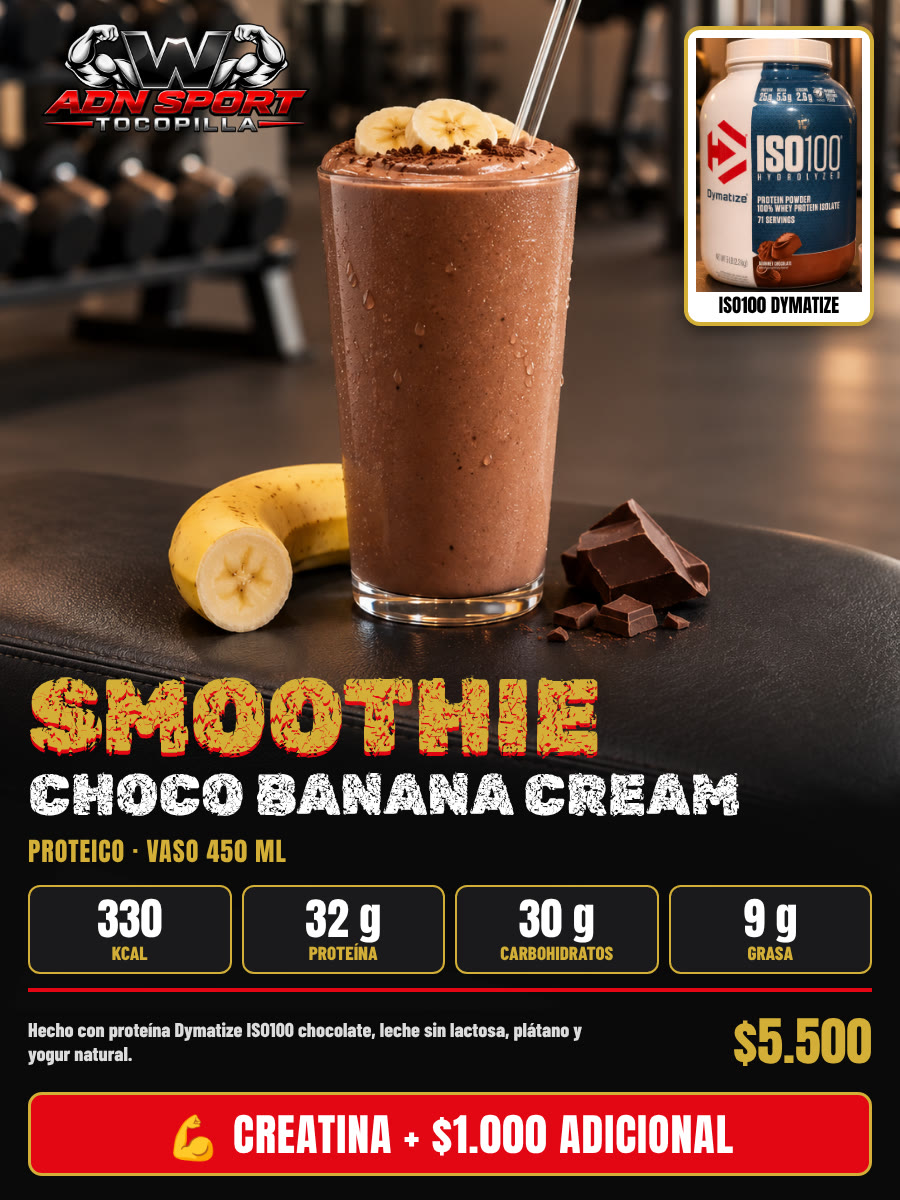
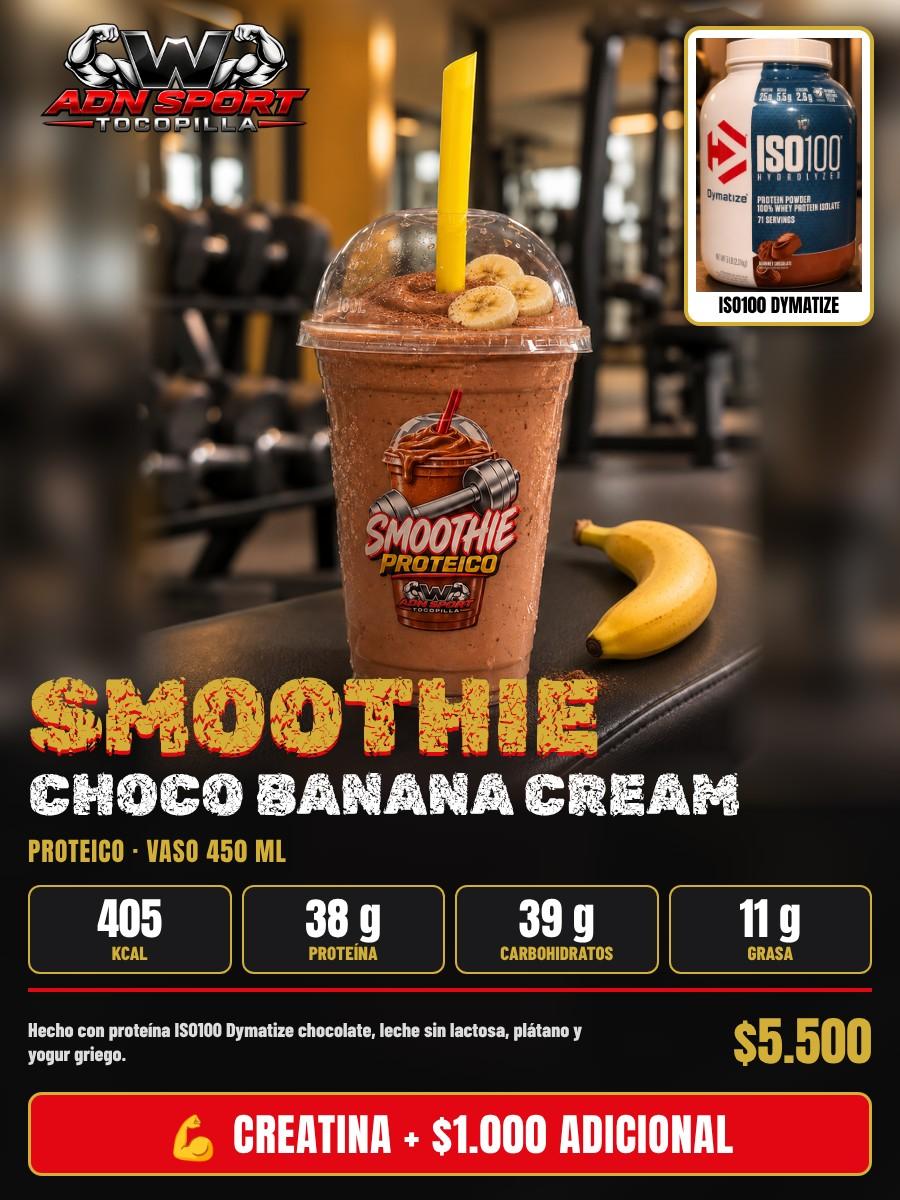
Smoothies: 6 afiches con el vaso real, receta cremosa y vuelve el Choco Maní
Claude-Session: https://claude.ai/code/session_013ZgZPSRHEDhMsqmx8Km842

diff --git a/tarjeta.html b/tarjeta.html
@@ -2483,7 +2483,7 @@ function renderEvolucion(s){
     oculta con «Ya no lo vendo» no llega. «Lo quiero» abre una ventanita (foto grande, cantidad, total)
     y después WhatsApp a Sara con el pedido. El stock solo baja cuando ella cobra en la tienda.
     Al cambiar una foto de img/tienda/ con el mismo nombre, subir TIENDA_FOTO_V junto con FOTO_V de tienda.html. */
- var TIENDA_FOTO_V = "66", TIENDA_WSP = "56975196394", TIENDA_SITIO = "https://encaladasara363-lang.github.io/wgymadnsport-archivos/";
+ var TIENDA_FOTO_V = "67", TIENDA_WSP = "56975196394", TIENDA_SITIO = "https://encaladasara363-lang.github.io/wgymadnsport-archivos/";
  /* Interruptor (25-10-2026, la dueña: "no quiero publicar la tienda el lunes porque compré ropa en Shein y no sé
     cuándo me llegaría"): en false la tarjeta no muestra la tienda aunque la Versión 25 esté instalada.
     Ponerlo en true (y subir TARJETA_VERSION) solo cuando ella lo pida. */
@@ -2541,7 +2541,7 @@ function renderEvolucion(s){
    /* El batido ganador de masa no tiene stock propio: sale de las porciones del tarro de «Batido de proteína»
       (27-10-2026, la dueña: "el ganador de masa me aparece sin stock"; mismo criterio que USA_PORCION de tienda.html). */
    /* Desde el 10-11-2026 la única proteína es la Prostar Vanilla (el Clear se devolvió; la Protein Phorm ya no se usa). */
-   l = l.filter(function(p){ return !/^(batido de prote|tarro de prote|batido ganador)/i.test(p.n) && !/^smoothie proteico choco (frutilla|oreo|man[ií])/i.test(p.n); }); /* 10-11-2026: solo queda el Choco Banana Cream */
+   l = l.filter(function(p){ return !/^(batido de prote|tarro de prote|batido ganador)/i.test(p.n) && !/^smoothie proteico choco (frutilla|oreo)/i.test(p.n); }); /* 10-11-2026: solo queda el Choco Banana Cream; 18-11-2026 vuelve el Choco Maní */
    var prostar = l.filter(function(p){ return /^prote[ií]na prostar/i.test(p.n); })[0];
    /* Smoothies de chocolate (10-11-2026): salen del tarro Dymatize ISO100; si no está cargado, de la Prostar. */
    var tarro = l.filter(function(p){ return /^prote[ií]na (dymatize )?iso ?100/i.test(p.n); })[0] || prostar;
@@ -2626,9 +2626,12 @@ function renderEvolucion(s){
  var TIENDA_MACROS = [
   { re:/^batido ganador/i, k:670, p:44, c:74, g:24, lleva:"Proteína whey chocolate, leche sin lactosa, plátano, avena y mantequilla de maní", al:"leche, soya y maní" },
   /* Smoothie Choco Banana Cream (05-11-2026, receta de la dueña, vaso de 450 ml; proteína Dragon Pharma Protein Phorm 30 g). */
-  { re:/^smoothie proteico frutilla cream/i, k:305, p:33, c:26, g:9, por:"450 ml", lleva:"Proteína Prostar Whey vainilla, leche entera sin lactosa, frutillas, plátano, yogur natural sin azúcar y hielo", al:"leche" },
-  { re:/^smoothie proteico choco banana/i, k:330, p:32, c:30, g:9, por:"450 ml", lleva:"Proteína Dymatize ISO100 chocolate, leche entera sin lactosa, plátano, yogur natural sin azúcar y hielo", al:"leche" },
-  { re:/^smoothie proteico choco man[ií]/i, k:400, p:37, c:17, g:20, por:"450 ml", lleva:"Proteína Dymatize ISO100 chocolate, leche entera sin lactosa, mantequilla de maní y hielo", al:"leche y maní" },
+  { re:/^smoothie proteico frutilla cream/i, k:385, p:38, c:32, g:12, por:"450 ml", lleva:"Proteína Prostar Whey vainilla, leche entera sin lactosa, frutillas, plátano, yogur griego natural sin azúcar y base de helado", al:"leche" },
+  { re:/^smoothie proteico choco banana/i, k:405, p:38, c:39, g:11, por:"450 ml", lleva:"Proteína Dymatize ISO100 chocolate, leche entera sin lactosa, plátano, yogur griego natural sin azúcar y base de helado", al:"leche" },
+  { re:/^smoothie proteico choco man[ií]/i, k:460, p:42, c:33, g:19, por:"450 ml", lleva:"Proteína Dymatize ISO100 chocolate, leche entera sin lactosa, mantequilla de maní, plátano, yogur griego natural sin azúcar y base de helado", al:"leche y maní" },
+  { re:/^smoothie proteico vainilla latte/i, k:380, p:38, c:31, g:12, por:"450 ml", lleva:"Proteína Prostar Whey vainilla, leche entera sin lactosa, café, canela, plátano, yogur griego natural sin azúcar y base de helado", al:"leche" },
+  { re:/^smoothie proteico tropical mango/i, k:445, p:39, c:41, g:15, por:"450 ml", lleva:"Proteína Prostar Whey vainilla, leche entera sin lactosa, mango, plátano, coco rallado, yogur griego natural sin azúcar y base de helado", al:"leche" },
+  { re:/^smoothie proteico berry cream/i, k:400, p:38, c:36, g:12, por:"450 ml", lleva:"Proteína Prostar Whey vainilla, leche entera sin lactosa, arándanos, frambuesas, moras, plátano, yogur griego natural sin azúcar y base de helado", al:"leche" },
   { re:/^smoothie proteico choco oreo/i, k:375, p:33, c:29, g:14, por:"450 ml", lleva:"Proteína Dymatize ISO100 chocolate, leche entera sin lactosa, galletas tipo Oreo y hielo", al:"leche, trigo y soya" },
   { re:/^smoothie proteico choco frutilla/i, k:295, p:33, c:19, g:10, por:"450 ml", lleva:"Proteína Dymatize ISO100 chocolate, leche entera sin lactosa, frutillas y hielo", al:"leche" },
   { re:/^batido de prote/i, k:315, p:32, c:27, g:9, lleva:"Proteína whey chocolate, leche sin lactosa, plátano, hielo y un toque de canela o cacao", al:"leche y soya" },
@@ -2767,7 +2770,7 @@ function renderEvolucion(s){
     compara TARJETA_VERSION con tarjeta-version.txt del sitio y, si hay
     una más nueva, la página se recarga sola (el nombre ya aparece
     puesto). Al cambiar tarjeta.html, subir los DOS números juntos. */
- var TARJETA_VERSION = "2026111701", ultimaRevisionVersion = 0;
+ var TARJETA_VERSION = "2026111801", ultimaRevisionVersion = 0;
 function recargarFresco_(v){
  /* Recarga pidiendo la página nueva (11-10-2026): location.reload() podía traer la copia
     guardada del teléfono (GitHub guarda la página ~10 min) y el socio seguía con la versión

diff --git a/tienda.html b/tienda.html
@@ -353,7 +353,7 @@ function hoyISO(){ return new Intl.DateTimeFormat("en-CA", { timeZone:"America/S
 function ahoraTxt(){ var f = new Intl.DateTimeFormat("sv-SE", { timeZone:"America/Santiago", year:"numeric", month:"2-digit", day:"2-digit", hour:"2-digit", minute:"2-digit" }).format(new Date()); return f.replace("T", " ").slice(0, 16); }
 function normTxt(s){ return String(s || "").toUpperCase().normalize("NFD").replace(/[̀-ͯ]/g, ""); }
 /* Al cambiar una foto en img/tienda/ (mismo nombre), subir FOTO_V para que los teléfonos no muestren la antigua. */
-var FOTO_V = "66";
+var FOTO_V = "67";
 function fotoUrl(f){ return f ? (/^data:/.test(f) ? f : f + (f.indexOf("?") < 0 ? "?v=" + FOTO_V : "")) : ""; }
 /* 📷 Foto subida desde el celular (27-10-2026, la dueña: "¿no lo puedo hacer todo sin depender de ti?"): se achica a
    máx. 480 × 640, se le pone el logo del gimnasio arriba a la izquierda (34 % del ancho, como las demás fotos) y se guarda
@@ -467,7 +467,7 @@ function elegirDelGrupo(cat, alElegir, lista){
 /* Waffles fuera de la tienda (07-11-2026, la dueña: "elimina la sección de waffles"): no salen en el inventario ni en Vender. */
 /* Helados de palito fuera de la tienda (10-11-2026, la dueña: "bórrame la sección de helados de palito"), igual que los waffles. */
 /* Proteínas antiguas fuera (10-11-2026): el Clear se devolvió por vencido y la dueña trabaja solo con la Prostar ("la Prostar es nueva, con esa trabajaré"). */
-function esWaffle(p){ return p && (p.cat === "Waffles" || /^waffle/i.test(p.n || "") || /^(batido de prote|tarro de prote|batido ganador)/i.test(p.n || "") || /^smoothie proteico choco (frutilla|oreo|man[ií])/i.test(p.n || "") || p.cat === "Helados de palito" || p.cat === "Paletas" || /^(helado de palito|paleta proteica)/i.test(p.n || "")); }
+function esWaffle(p){ return p && (p.cat === "Waffles" || /^waffle/i.test(p.n || "") || /^(batido de prote|tarro de prote|batido ganador)/i.test(p.n || "") || /^smoothie proteico choco (frutilla|oreo)/i.test(p.n || "") || p.cat === "Helados de palito" || p.cat === "Paletas" || /^(helado de palito|paleta proteica)/i.test(p.n || "")); }
 function activos(){ return S.productos.filter(function(p){ return p.activo && !retirada(p) && !esWaffle(p); }); }
 /* 🏷 Ropa vendida (26-10-2026, la dueña: casi toda la ropa es de una sola prenda; "cuando se venda una prenda que se
    coloque vendido automático y que se quede en la tienda por 15 días y luego la eliminas"): una prenda sin stock con
@@ -694,7 +694,7 @@ setInterval(function(){ if(pend.length) enviarPendientes(); }, 30000);
   var on = document.documentElement.classList.toggle("rosa");
   try{ localStorage.setItem("wgym_tienda_tema_v2", on ? "rosa" : "oscuro"); }catch(e){}
   toast(on ? "🎨 Fondo rosita (solo en este equipo). Toca 🎨 de nuevo para volver al negro." : "🎨 Volviste al fondo negro.", 3500); }; })();
-var TIENDA_VERSION = "2026111701";
+var TIENDA_VERSION = "2026111801";
 setInterval(function(){ if(clave && !document.hidden && $("velo").hidden && !$("app").hidden) enviarPendientes().then(function(){ cargar(true); }); }, 30000);
 function revisarVersion(){
  fetch("tienda-version.txt?t=" + Date.now(), { cache:"no-store" }).then(function(r){ return r.ok ? r.text() : ""; }).then(function(v){

diff --git a/CLAUDE.md b/CLAUDE.md
@@ -1686,7 +1686,7 @@ productos» y «Tienda movimientos», acciones `tienda*` de `docs/apps-script/In
 - **💰 Mi plata por categoría (07-11-2026, la dueña: "lo más importante para mí: mi ganancia, cuánto tengo para comprar y lo que he invertido en cada sección, y que cuando agregue mercadería me vaya descontando"; antes salía todo en rojo y la confundía):** `plataParaComprar` trata cada categoría como una caja: 📥 Invertiste (todas las entradas con costo, stock inicial incluido, más los gastos de esa categoría), 💵 Vendiste, 📦 Tienes en mercadería (stock × costo) y 💰 Para comprar = lo que dejaron las ventas sin la parte de la dueña (costo + 70 % de la ganancia; fiados sin pagar no cuentan, lo abonado sí) − lo invertido. Si da menos de 0 se muestra $0 en amarillo, con el aviso «todavía estás recuperando lo que invertiste… tu plata está en la mercadería» (nunca en rojo). El total de arriba suma solo las categorías con plata.
 - **💰 La caja de la tienda (10-11-2026, la dueña: "cuando vendo compro mercadería para no quedar sin stock"; eligió esta cuenta, reemplaza el «Para comprar» por categoría):** `plataParaComprar` → `caja` = partiste con (`fondoInicial()`, $100.000 por defecto, «✏ Cambiar» en «💰 Mi plata», guardado en cada equipo en `wgym_tienda_fondo_inicial_v1`) + lo que dejaron las ventas cobradas (costo + la ganancia que no es suya) − toda la mercadería comprada y los gastos. «💰 Para comprar» muestra esa caja (nunca bajo $0; si da negativo, explica que la diferencia la puso ella y está en la mercadería). Cada categoría muestra Compraste / Vendiste / Volvió a la caja / En mercadería, sin «para comprar» propio. Su 30 % se saca el día 1 de cada mes.
 - **🔁 Para volver a invertir por sección (10-11-2026, la dueña: "solo quiero que me aparte el 30 % de la ganancia y que me muestre lo que tengo que volver a invertir en cada sección… cada vez que vendo"; reemplaza la «caja de la tienda»):** `reinversion(per)` recorre las ventas cobradas del período (fiados solo en la parte abonada): por cada venta, su % (`pctDe`, 30) de la ganancia es para ella y el resto (costo + 70 % de la ganancia) vuelve a esa misma sección. El botón amarillo de arriba dice «🔁 Para volver a invertir» (mes en curso) y el verde «💵 Tu 30 %». `verPlata` trae Hoy / Esta semana / Este mes / Todo (`plPer`) y una tarjeta por sección con Vendiste / 🔁 Para volver a invertir / Tu 30 %. Ya no muestra compras, fondo inicial ni «en mercadería» (`plataParaComprar`/`fondoInicial` quedaron sin usar). **Ropa y accesorios juntos (10-11-2026, la dueña: "ropa y accesorios va todo junto, no solo ropa de mujer"):** `GRUPO_PLATA` junta Ropa mujer, Ropa hombre, Accesorios y Zapatillas en una sola tarjeta «👕 Ropa y accesorios» (cada venta usa igual el % de su categoría).
-- **💰 Darse vuelta con lo que hay, desde el 10-11-2026 (la dueña: "ya no quiero invertir más, solo darme vuelta con lo que tengo… cada vez que venda compro… semanal y que se vaya acumulando… tope todo el dinero que ya tengo invertido… solo desde hoy empezar a ver mi ganancia"; reemplaza «Para volver a invertir»):** `PLATA_DESDE = "2026-11-10"`, **reiniciado desde cero el mismo día a las 15:25** (`"2026-11-10 15:25"`, fecha y hora: se compara con los primeros 16 caracteres de `m.f`, `desdeTxt()` lo muestra; la dueña: "un reseteo desde cero… solo gastar plata si me entra dinero… mi 30 % de todo incluyendo los pases diarios"; lo de antes de esa hora queda en el tope). `reinversion()` cuenta solo desde esa fecha y por sección (`GRUPO_PLATA`: ropa, zapatillas y accesorios juntos): ➕ Entró para comprar (costo + 70 % de la ganancia de cada venta cobrada; fiados solo lo abonado; «esta semana» de lunes a domingo), ➖ Compraste (entradas con costo y gastos de esa sección desde esa fecha) y 💰 Disponible = entró − compró (si queda bajo 0, en rojo claro con «⚠ Compraste $X más…»: ella avisa si gasta de más). Arriba, el botón amarillo «💰 Disponible para comprar · desde el 10/11» y el verde «💵 Tu 30 % · desde el 10/11 (va sumando)» con «esta semana»; `verMiParte` muestra su parte semana a semana (`miParteSemanas`). En «Mi plata», «🔒 Tu plata ya invertida (tope)» = `invertidoAntes()` (todo lo comprado antes de esa fecha, de los 120 días de movimientos que trae la página). **Desde el 10-11-2026 (la dueña: "en el tope quiero que sumes bien todo lo que he invertido")** `invertidoPorSeccion()` suma además lo cargado sin costo (cantidad × costo del producto) y el stock subido a mano en la ficha (ajustes positivos, sin apartados/packs/porciones), y «Mi plata» muestra el tope separado por sección. Arriba del tope, «💼 Toda tu inversión» (10-11-2026, pedido de la dueña) = tope + lo comprado desde el reseteo (compras de cada sección y gastos generales). Los tarros de `COMPRADO_ANTES` llevan `monto` (Blue Razz $24.990, Prostar $95.000, ISO100 $130.000) y cuentan siempre por ese precio si el producto existe, sin sumar sus movimientos aparte. **Desde el 10-11-2026 (la dueña: "quiero que sumes el total de todo lo que he comprado en costo real")** el monto fijo cuenta aunque el producto no esté cargado (ISO100 no lo estaba), el «Batido de proteína» (Clear) no suma (la dueña lo devolvió y le devolvieron la plata; `devuelto:true`) y lo que sale de un tarro (granizado, smoothies, ganador) no suma al tope. Revisado contra la planilla: tope ≈ $1.528.418 (ropa + accesorios + zapatillas $431.464, suplementos $352.400 —con la Beta alanina AS 200 g (100 porciones), tarro $18.000 en `COMPRADO_ANTES`; se vende el tarro entero a $27.000, no por porción (la dueña); foto `img/tienda/beta-alanina-as.jpg` (ChatGPT + logo + «SHAKER NO INCLUIDO» + franja «TARRO ENTERO · 100 PORCIONES»)—, resina $407.500 —100 llaveros pequeños, 200 iniciales, 30 lapiceros y 150 placas (75 grandes + 75 pequeñas) a costo, por `monto` en `COMPRADO_ANTES` con `cat:"Resina"`—, bebestibles $198.054, helados $80.400, snacks $51.600, helados de palito $4.000, waffles $3.000). `miParteMeses` quedó sin usar. **Pases diarios como fondo común (10-11-2026, la dueña):** en `reinversion()`, si una sección queda con disponible bajo 0, se cubre con el disponible de «Pases diarios» («🎟 Puesto por los pases diarios» en esa sección y «🎟 Usado en otras secciones» en la de pases); el total no cambia. La franja verde del fondo común y el botón rojo «🎟 Pase diario · $4.000» se quedan en la pantalla Vender (11-11-2026, la dueña: "de ahí no quiero que lo saques"). En «💰 Mi plata» cada sección lleva un borde grueso y el título en una franja de su propio color (`COLORES_SEC`; 11-11-2026, la dueña: "me pierdo y visualmente me confundo"); el fondo común va en verde. Lo «💰 Disponible» (el cuadro de arriba, el total y cada sección) va en **rosado**, el color de la suerte de la dueña (11-11-2026); el cuadro de arriba es fucsia oscuro `#C2185B` con letra blanca (la dueña: el negro sobre rosado no se veía bien). **Tema rosado claro completo, sin fondos negros (11-11-2026, la dueña: "no quiero que tenga fondos negros"):** con `html.rosa` las variables pasan a cuadros blanco/rosado (`--card`, `--card2`), bordes rosados y letra vino `#3A0A24`; casilleros blancos, barra de abajo rosada; los textos amarillos/verdes/rosados (también los puestos en el código) se oscurecen para leerse sobre claro; botones rojos y amarillos, el cuadro fucsia «Disponible» y el verde «Tu 30 %» quedan iguales; las ventanas (`.hoja`) también en rosado; ninguna sección usa rosado de borde. Toda categoría con productos sale en «Mi plata» aunque no tenga ventas desde el reinicio (11-11-2026, la dueña no veía Resina). **🔠 Toda la tienda en MAYÚSCULAS y letra grande (11-11-2026, la dueña es corta de vista):** CSS al final del `<style>` de `tienda.html` (letra Atkinson Hyperlegible en negrita, hecha para baja visión, sin cursiva en los botones; el logo «TIENDA WGYM» y los números en Anton se mantienen; en `#app` y `#velo`; letras de 12-15 px suben a 17 px, gris más claro; los casilleros y las etiquetas impresas no cambian). **Barra de abajo (11-11-2026, la dueña: letras muy chicas y no se notaba qué pestaña apretó):** letra 16 px, íconos 28 px, la pestaña elegida con el ícono más grande dentro de un cuadrito blanco con borde de color (12-11-2026, la dueña: el carrito no se veía sobre el fucsia), la palabra en ese color y una rayita arriba (rojo; fucsia en el tema rosado); el bloque de color completo no le gustó a la dueña. **🎨 Fondo rosita de prueba (11-11-2026, la dueña: "que sea solo para mí"):** botón 🎨 en la cabecera de la tienda; fondo rosado pastel (clase `html.rosa`); desde el mismo día es el fondo por defecto (la dueña no lo veía) y 🎨 vuelve al negro solo en ese equipo (`wgym_tienda_tema_v2`); los cuadros siguen oscuros. Colores fijos por sección en `COLOR_FIJO` (Bebestibles celeste suave: el rojo le pareció muy intenso a la dueña). Desde el 11-11-2026 esa tarjeta se llama «🎟 Fondo común · Pases diarios», va primera, con borde verde y aparece siempre (aunque aún no haya pases). Desde el mismo día (la dueña: "no lo veo en qué lado está") (la dueña guardó el producto «Pase diario» en Bebestibles: al cargar, todo producto que empieza con «Pase diario» cuenta en «Pases diarios») también va como franja verde «🎟 FONDO COMÚN · PASES DIARIOS: $X» bajo los dos cuadros de arriba de la tienda (`#bFondo`, abre «💰 Mi plata»). **Materiales de smoothies automáticos (11-11-2026, la dueña: "pensaba que con solo agregar un smoothie se descontaba el material"):** en `reinversion()`, cada smoothie vendido suma a «➖ Compraste» de Smoothies su costo menos la porción de proteína del tarro (`basePorcion`), y la fila dice «incluye $X de materiales… (automático)». Las compras de leche, fruta y vasos ya no se anotan como gasto de Smoothies (se contarían dos veces). Lo mismo para todo lo que sale de un tarro (`basePorcion`, ej. el granizado: vaso + hielo). **Vaso de las porciones (11-11-2026, la dueña: "los vasos me cuestan 120"):** cada porción vendida sola de pre entreno Mr Hyde, Prostar o ISO100 suma `VASO_PORCION` ($120) a «Compraste» de su sección; smoothies y granizado ya lo traen en su costo. El pre entreno por porción suma además `HIELO_PORCION` ($65: lleva 3 cubos, según la dueña; referencia: bolsa de 2 kg ≈ $1.600 ≈ 75 cubos → ≈$21 por cubo). Cada smoothie suma además la pajilla (`PAJILLA_SMOOTHIE` $60: 50 por $3.000, la dueña). Y el sticker «Smoothie proteico» del vaso (`STICKER_SMOOTHIE` $18: 50 hojas por $7.000 = $140 la hoja ÷ 8 stickers; 11-11-2026, la dueña: "también tiene que agregar el costo de esto en la tienda"). **Helados (los hace la dueña, 11-11-2026):** cada helado vendido suma su costo completo a «Compraste» de Helados, y las entradas de stock de Helados ya no cuentan ahí (se contarían dos veces). Lo que se compra con stock (bebestibles, snacks, ropa, tarros) ya entra a «Compraste» con «Llegó mercadería». **Entradas que no son compras (10-11-2026):** `NO_ES_COMPRA` (nombre + fecha y hora exactas) deja fuera de «➖ Compraste» una entrada que solo volvió a cargar algo que ya tenía (la polera «This is my therapy» de las 16:22, que estaba guardada para una clienta y se pagó ese día). **Compras antiguas cargadas después (10-11-2026):** `COMPRADO_ANTES` (comienzo del nombre + fecha `hasta`) hace que la carga de ese producto vaya al tope y no se descuente del disponible (`compraAntigua`). Primero: Pre entreno Mr Hyde Signature Blue Razz (tarro $24.990, 30 porciones → $833; venta $2.000 por porción; comprado antes del 10-11; foto `img/tienda/pre-entreno-mr-hyde-signature-blue-razz.jpg`: tarro, scoop y shaker sobre el banco negro (ChatGPT) + logo + «SHAKER NO INCLUIDO» + franja «SE VENDE POR PORCIÓN», igual que el Fruit Punch). **Mismo código para los dos sabores (10-11-2026, la dueña: "ponme el mismo código que uso del otro pre, solo cambia el sabor"):** `FAMILIAS` en `tienda.html` (`/^pre entreno mr hyde signature/i`): al escanear el código de un producto de la familia con 2 o más sabores activos, 🛒 Vender pregunta «¿Qué sabor?» (`familiaDe` → `elegirDelGrupo(cat, fn, lista)`). El Blue Razz se carga sin código propio y usa la etiqueta del Fruit Punch. Para otro producto con varios sabores, sumar su regex a `FAMILIAS`. Proteína Prostar 100% Whey Vanilla Créme (Ultimate Nutrition, 2,39 kg ≈ 80 porciones de 30 g; tarro $95.000 → $1.188 por porción; venta $3.000 por porción sola; **también para smoothies de vainilla a $4.500** (10-11-2026): en `USA_PORCION` de `tienda.html` y en la vitrina de `tarjeta.html`, todo smoothie con «vainilla», «vanilla» o «prostar» en el nombre descuenta 1 porción del tarro Prostar (los demás siguen saliendo del «Tarro de proteína …»); ese día el granizado quedó atado solo al Mr Hyde Fruit Punch (`/^pre ?entreno mr hyde signature fruit punch/i`, antes tomaba cualquier Mr Hyde); comprada antes del 10-11, en `COMPRADO_ANTES` con `/^prote[ií]na prostar/i`; foto `img/tienda/proteina-prostar-whey-vanilla.jpg`: tarro, scoop y shaker sobre el banco negro (ChatGPT) + logo + «SHAKER NO INCLUIDO» + franja «SE VENDE POR PORCIÓN»; nombre en la tienda «Proteína Prostar 100% Whey Vanilla Créme», 80 porciones, código propio 200…). **Única proteína desde el 10-11-2026 (la dueña devolvió la Clear por vencida: "la Prostar es nueva, con esa trabajaré"):** «Batido de proteína» (Clear) y «Tarro de proteína …» (Protein Phorm) quedan fuera de la tienda y la vitrina (`esWaffle` en `tienda.html`, filtro en `renderTienda_`; siguen en la planilla). En `USA_PORCION` todos los smoothies (también el Choco Banana Cream) y el batido ganador descuentan del tarro Prostar; en la vitrina toman su stock. Los macros del Choco Banana siguen siendo los de la receta con Protein Phorm hasta que la dueña mande la nueva. **Smoothies de chocolate con Dymatize ISO100 Gourmet Chocolate (10-11-2026, la dueña: "todos estos smoothies los haré ahora con esta proteína"; tarro 2,3 kg, 71 porciones):** Choco Banana Cream, Choco Maní, Choco Oreo y Choco Frutilla descuentan del producto «Proteína Dymatize ISO100 …» (`USA_PORCION` `/^smoothie.*(choco|cacao)/` antes de la regla general; en la vitrina, `tarro`); si todavía no está cargado, salen de la Prostar. Tarro $130.000 ÷ 71 = $1.831 por porción, comprado antes del 10-11 (en `COMPRADO_ANTES`). Venta $4.000 por porción sola y $5.500 los smoothies de chocolate (la dueña). Foto `img/tienda/proteina-iso100-gourmet-chocolate.jpg`: tarro, scoop y shaker sobre el banco negro (ChatGPT) + logo + «SHAKER NO INCLUIDO» + franja «SE VENDE POR PORCIÓN». **Smoothies por proteína (10-11-2026, la dueña: "que identifique los sabores con la proteína ISO y con la Prostar"):** en la vitrina de la tarjeta, la categoría Smoothies se divide en «🍫 Con proteína ISO100 Dymatize» (los de chocolate) y «🍦 Con proteína Prostar» (los demás), cada una con su fila (`tvProt_`/`tvProtGrupos_`), y cada smoothie lleva la etiqueta «🍫 ISO100» o «🍦 Prostar» (también en «Todos»); en el inventario de la tienda, «🥤 Sale del tarro 🍫 ISO100/🍦 Prostar». Afiches de los smoothies de chocolate (mismo diseño del Choco Banana, cuadro del tarro ISO100, $5.500; generados en el scratchpad con `smo/gen.py`): `img/tienda/smoothie-choco-banana-cream.jpg` (rehecho) `smoothie-choco-mani.jpg`, `smoothie-choco-oreo.jpg` y `smoothie-choco-frutilla.jpg`. Macros estimados con 30 g de ISO100 en `TIENDA_MACROS`: Banana 330 · 32 · 30 · 9; Maní 400 · 37 · 17 · 20 (maní); Oreo 375 · 33 · 29 · 14 (trigo, soya); Frutilla 295 · 33 · 19 · 10. **Solo el Choco Banana Cream desde el 10-11-2026 (la dueña: "quiero borrar todos los sabores del smoothie, solo me quedaré con el banana cream"):** Choco Frutilla, Choco Oreo y Choco Maní quedan fuera de la tienda (`esWaffle`) y de la vitrina (filtro de `renderTienda_`); siguen en la planilla y sus afiches en `img/tienda/`. No volver a mostrarlos salvo que ella lo pida. **Smoothie proteico Frutilla Cream (10-11-2026, receta de la dueña, con Prostar):** 150 ml de leche entera sin lactosa, 30 g de Prostar, 80 g de frutillas congeladas, 30 g de plátano congelado, 60 g de yogur natural sin azúcar, 2 cubos de hielo y 0,3 g de xantana; ≈305 kcal · 33 P · 26 C · 9 G (estimado, `TIENDA_MACROS`), contiene leche; costo ≈$2.000, venta $4.500; descuenta del tarro Prostar (`USA_PORCION`) y en la vitrina va bajo «🍦 Con proteína Prostar». Afiche `img/tienda/smoothie-frutilla-cream.jpg` (foto rosada de ChatGPT + cuadro del tarro Prostar, igual que los demás). **Batido ganador de masa FUERA desde el 10-11-2026** (la dueña: "ganador de masa no"): mismo filtro (`/^batido ganador/i`) en la tienda y la vitrina; no volver a mostrarlo salvo que ella lo pida.
+- **💰 Darse vuelta con lo que hay, desde el 10-11-2026 (la dueña: "ya no quiero invertir más, solo darme vuelta con lo que tengo… cada vez que venda compro… semanal y que se vaya acumulando… tope todo el dinero que ya tengo invertido… solo desde hoy empezar a ver mi ganancia"; reemplaza «Para volver a invertir»):** `PLATA_DESDE = "2026-11-10"`, **reiniciado desde cero el mismo día a las 15:25** (`"2026-11-10 15:25"`, fecha y hora: se compara con los primeros 16 caracteres de `m.f`, `desdeTxt()` lo muestra; la dueña: "un reseteo desde cero… solo gastar plata si me entra dinero… mi 30 % de todo incluyendo los pases diarios"; lo de antes de esa hora queda en el tope). `reinversion()` cuenta solo desde esa fecha y por sección (`GRUPO_PLATA`: ropa, zapatillas y accesorios juntos): ➕ Entró para comprar (costo + 70 % de la ganancia de cada venta cobrada; fiados solo lo abonado; «esta semana» de lunes a domingo), ➖ Compraste (entradas con costo y gastos de esa sección desde esa fecha) y 💰 Disponible = entró − compró (si queda bajo 0, en rojo claro con «⚠ Compraste $X más…»: ella avisa si gasta de más). Arriba, el botón amarillo «💰 Disponible para comprar · desde el 10/11» y el verde «💵 Tu 30 % · desde el 10/11 (va sumando)» con «esta semana»; `verMiParte` muestra su parte semana a semana (`miParteSemanas`). En «Mi plata», «🔒 Tu plata ya invertida (tope)» = `invertidoAntes()` (todo lo comprado antes de esa fecha, de los 120 días de movimientos que trae la página). **Desde el 10-11-2026 (la dueña: "en el tope quiero que sumes bien todo lo que he invertido")** `invertidoPorSeccion()` suma además lo cargado sin costo (cantidad × costo del producto) y el stock subido a mano en la ficha (ajustes positivos, sin apartados/packs/porciones), y «Mi plata» muestra el tope separado por sección. Arriba del tope, «💼 Toda tu inversión» (10-11-2026, pedido de la dueña) = tope + lo comprado desde el reseteo (compras de cada sección y gastos generales). Los tarros de `COMPRADO_ANTES` llevan `monto` (Blue Razz $24.990, Prostar $95.000, ISO100 $130.000) y cuentan siempre por ese precio si el producto existe, sin sumar sus movimientos aparte. **Desde el 10-11-2026 (la dueña: "quiero que sumes el total de todo lo que he comprado en costo real")** el monto fijo cuenta aunque el producto no esté cargado (ISO100 no lo estaba), el «Batido de proteína» (Clear) no suma (la dueña lo devolvió y le devolvieron la plata; `devuelto:true`) y lo que sale de un tarro (granizado, smoothies, ganador) no suma al tope. Revisado contra la planilla: tope ≈ $1.528.418 (ropa + accesorios + zapatillas $431.464, suplementos $352.400 —con la Beta alanina AS 200 g (100 porciones), tarro $18.000 en `COMPRADO_ANTES`; se vende el tarro entero a $27.000, no por porción (la dueña); foto `img/tienda/beta-alanina-as.jpg` (ChatGPT + logo + «SHAKER NO INCLUIDO» + franja «TARRO ENTERO · 100 PORCIONES»)—, resina $407.500 —100 llaveros pequeños, 200 iniciales, 30 lapiceros y 150 placas (75 grandes + 75 pequeñas) a costo, por `monto` en `COMPRADO_ANTES` con `cat:"Resina"`—, bebestibles $198.054, helados $80.400, snacks $51.600, helados de palito $4.000, waffles $3.000). `miParteMeses` quedó sin usar. **Pases diarios como fondo común (10-11-2026, la dueña):** en `reinversion()`, si una sección queda con disponible bajo 0, se cubre con el disponible de «Pases diarios» («🎟 Puesto por los pases diarios» en esa sección y «🎟 Usado en otras secciones» en la de pases); el total no cambia. La franja verde del fondo común y el botón rojo «🎟 Pase diario · $4.000» se quedan en la pantalla Vender (11-11-2026, la dueña: "de ahí no quiero que lo saques"). En «💰 Mi plata» cada sección lleva un borde grueso y el título en una franja de su propio color (`COLORES_SEC`; 11-11-2026, la dueña: "me pierdo y visualmente me confundo"); el fondo común va en verde. Lo «💰 Disponible» (el cuadro de arriba, el total y cada sección) va en **rosado**, el color de la suerte de la dueña (11-11-2026); el cuadro de arriba es fucsia oscuro `#C2185B` con letra blanca (la dueña: el negro sobre rosado no se veía bien). **Tema rosado claro completo, sin fondos negros (11-11-2026, la dueña: "no quiero que tenga fondos negros"):** con `html.rosa` las variables pasan a cuadros blanco/rosado (`--card`, `--card2`), bordes rosados y letra vino `#3A0A24`; casilleros blancos, barra de abajo rosada; los textos amarillos/verdes/rosados (también los puestos en el código) se oscurecen para leerse sobre claro; botones rojos y amarillos, el cuadro fucsia «Disponible» y el verde «Tu 30 %» quedan iguales; las ventanas (`.hoja`) también en rosado; ninguna sección usa rosado de borde. Toda categoría con productos sale en «Mi plata» aunque no tenga ventas desde el reinicio (11-11-2026, la dueña no veía Resina). **🔠 Toda la tienda en MAYÚSCULAS y letra grande (11-11-2026, la dueña es corta de vista):** CSS al final del `<style>` de `tienda.html` (letra Atkinson Hyperlegible en negrita, hecha para baja visión, sin cursiva en los botones; el logo «TIENDA WGYM» y los números en Anton se mantienen; en `#app` y `#velo`; letras de 12-15 px suben a 17 px, gris más claro; los casilleros y las etiquetas impresas no cambian). **Barra de abajo (11-11-2026, la dueña: letras muy chicas y no se notaba qué pestaña apretó):** letra 16 px, íconos 28 px, la pestaña elegida con el ícono más grande dentro de un cuadrito blanco con borde de color (12-11-2026, la dueña: el carrito no se veía sobre el fucsia), la palabra en ese color y una rayita arriba (rojo; fucsia en el tema rosado); el bloque de color completo no le gustó a la dueña. **🎨 Fondo rosita de prueba (11-11-2026, la dueña: "que sea solo para mí"):** botón 🎨 en la cabecera de la tienda; fondo rosado pastel (clase `html.rosa`); desde el mismo día es el fondo por defecto (la dueña no lo veía) y 🎨 vuelve al negro solo en ese equipo (`wgym_tienda_tema_v2`); los cuadros siguen oscuros. Colores fijos por sección en `COLOR_FIJO` (Bebestibles celeste suave: el rojo le pareció muy intenso a la dueña). Desde el 11-11-2026 esa tarjeta se llama «🎟 Fondo común · Pases diarios», va primera, con borde verde y aparece siempre (aunque aún no haya pases). Desde el mismo día (la dueña: "no lo veo en qué lado está") (la dueña guardó el producto «Pase diario» en Bebestibles: al cargar, todo producto que empieza con «Pase diario» cuenta en «Pases diarios») también va como franja verde «🎟 FONDO COMÚN · PASES DIARIOS: $X» bajo los dos cuadros de arriba de la tienda (`#bFondo`, abre «💰 Mi plata»). **Materiales de smoothies automáticos (11-11-2026, la dueña: "pensaba que con solo agregar un smoothie se descontaba el material"):** en `reinversion()`, cada smoothie vendido suma a «➖ Compraste» de Smoothies su costo menos la porción de proteína del tarro (`basePorcion`), y la fila dice «incluye $X de materiales… (automático)». Las compras de leche, fruta y vasos ya no se anotan como gasto de Smoothies (se contarían dos veces). Lo mismo para todo lo que sale de un tarro (`basePorcion`, ej. el granizado: vaso + hielo). **Vaso de las porciones (11-11-2026, la dueña: "los vasos me cuestan 120"):** cada porción vendida sola de pre entreno Mr Hyde, Prostar o ISO100 suma `VASO_PORCION` ($120) a «Compraste» de su sección; smoothies y granizado ya lo traen en su costo. El pre entreno por porción suma además `HIELO_PORCION` ($65: lleva 3 cubos, según la dueña; referencia: bolsa de 2 kg ≈ $1.600 ≈ 75 cubos → ≈$21 por cubo). Cada smoothie suma además la pajilla (`PAJILLA_SMOOTHIE` $60: 50 por $3.000, la dueña). Y el sticker «Smoothie proteico» del vaso (`STICKER_SMOOTHIE` $18: 50 hojas por $7.000 = $140 la hoja ÷ 8 stickers; 11-11-2026, la dueña: "también tiene que agregar el costo de esto en la tienda"). **Helados (los hace la dueña, 11-11-2026):** cada helado vendido suma su costo completo a «Compraste» de Helados, y las entradas de stock de Helados ya no cuentan ahí (se contarían dos veces). Lo que se compra con stock (bebestibles, snacks, ropa, tarros) ya entra a «Compraste» con «Llegó mercadería». **Entradas que no son compras (10-11-2026):** `NO_ES_COMPRA` (nombre + fecha y hora exactas) deja fuera de «➖ Compraste» una entrada que solo volvió a cargar algo que ya tenía (la polera «This is my therapy» de las 16:22, que estaba guardada para una clienta y se pagó ese día). **Compras antiguas cargadas después (10-11-2026):** `COMPRADO_ANTES` (comienzo del nombre + fecha `hasta`) hace que la carga de ese producto vaya al tope y no se descuente del disponible (`compraAntigua`). Primero: Pre entreno Mr Hyde Signature Blue Razz (tarro $24.990, 30 porciones → $833; venta $2.000 por porción; comprado antes del 10-11; foto `img/tienda/pre-entreno-mr-hyde-signature-blue-razz.jpg`: tarro, scoop y shaker sobre el banco negro (ChatGPT) + logo + «SHAKER NO INCLUIDO» + franja «SE VENDE POR PORCIÓN», igual que el Fruit Punch). **Mismo código para los dos sabores (10-11-2026, la dueña: "ponme el mismo código que uso del otro pre, solo cambia el sabor"):** `FAMILIAS` en `tienda.html` (`/^pre entreno mr hyde signature/i`): al escanear el código de un producto de la familia con 2 o más sabores activos, 🛒 Vender pregunta «¿Qué sabor?» (`familiaDe` → `elegirDelGrupo(cat, fn, lista)`). El Blue Razz se carga sin código propio y usa la etiqueta del Fruit Punch. Para otro producto con varios sabores, sumar su regex a `FAMILIAS`. Proteína Prostar 100% Whey Vanilla Créme (Ultimate Nutrition, 2,39 kg ≈ 80 porciones de 30 g; tarro $95.000 → $1.188 por porción; venta $3.000 por porción sola; **también para smoothies de vainilla a $4.500** (10-11-2026): en `USA_PORCION` de `tienda.html` y en la vitrina de `tarjeta.html`, todo smoothie con «vainilla», «vanilla» o «prostar» en el nombre descuenta 1 porción del tarro Prostar (los demás siguen saliendo del «Tarro de proteína …»); ese día el granizado quedó atado solo al Mr Hyde Fruit Punch (`/^pre ?entreno mr hyde signature fruit punch/i`, antes tomaba cualquier Mr Hyde); comprada antes del 10-11, en `COMPRADO_ANTES` con `/^prote[ií]na prostar/i`; foto `img/tienda/proteina-prostar-whey-vanilla.jpg`: tarro, scoop y shaker sobre el banco negro (ChatGPT) + logo + «SHAKER NO INCLUIDO» + franja «SE VENDE POR PORCIÓN»; nombre en la tienda «Proteína Prostar 100% Whey Vanilla Créme», 80 porciones, código propio 200…). **Única proteína desde el 10-11-2026 (la dueña devolvió la Clear por vencida: "la Prostar es nueva, con esa trabajaré"):** «Batido de proteína» (Clear) y «Tarro de proteína …» (Protein Phorm) quedan fuera de la tienda y la vitrina (`esWaffle` en `tienda.html`, filtro en `renderTienda_`; siguen en la planilla). En `USA_PORCION` todos los smoothies (también el Choco Banana Cream) y el batido ganador descuentan del tarro Prostar; en la vitrina toman su stock. Los macros del Choco Banana siguen siendo los de la receta con Protein Phorm hasta que la dueña mande la nueva. **Smoothies de chocolate con Dymatize ISO100 Gourmet Chocolate (10-11-2026, la dueña: "todos estos smoothies los haré ahora con esta proteína"; tarro 2,3 kg, 71 porciones):** Choco Banana Cream, Choco Maní, Choco Oreo y Choco Frutilla descuentan del producto «Proteína Dymatize ISO100 …» (`USA_PORCION` `/^smoothie.*(choco|cacao)/` antes de la regla general; en la vitrina, `tarro`); si todavía no está cargado, salen de la Prostar. Tarro $130.000 ÷ 71 = $1.831 por porción, comprado antes del 10-11 (en `COMPRADO_ANTES`). Venta $4.000 por porción sola y $5.500 los smoothies de chocolate (la dueña). Foto `img/tienda/proteina-iso100-gourmet-chocolate.jpg`: tarro, scoop y shaker sobre el banco negro (ChatGPT) + logo + «SHAKER NO INCLUIDO» + franja «SE VENDE POR PORCIÓN». **Smoothies por proteína (10-11-2026, la dueña: "que identifique los sabores con la proteína ISO y con la Prostar"):** en la vitrina de la tarjeta, la categoría Smoothies se divide en «🍫 Con proteína ISO100 Dymatize» (los de chocolate) y «🍦 Con proteína Prostar» (los demás), cada una con su fila (`tvProt_`/`tvProtGrupos_`), y cada smoothie lleva la etiqueta «🍫 ISO100» o «🍦 Prostar» (también en «Todos»); en el inventario de la tienda, «🥤 Sale del tarro 🍫 ISO100/🍦 Prostar». Afiches de los smoothies de chocolate (mismo diseño del Choco Banana, cuadro del tarro ISO100, $5.500; generados en el scratchpad con `smo/gen.py`): `img/tienda/smoothie-choco-banana-cream.jpg` (rehecho) `smoothie-choco-mani.jpg`, `smoothie-choco-oreo.jpg` y `smoothie-choco-frutilla.jpg`. Macros estimados con 30 g de ISO100 en `TIENDA_MACROS`: Banana 330 · 32 · 30 · 9; Maní 400 · 37 · 17 · 20 (maní); Oreo 375 · 33 · 29 · 14 (trigo, soya); Frutilla 295 · 33 · 19 · 10. **Solo el Choco Banana Cream desde el 10-11-2026 (la dueña: "quiero borrar todos los sabores del smoothie, solo me quedaré con el banana cream"):** Choco Frutilla, Choco Oreo y Choco Maní quedan fuera de la tienda (`esWaffle`) y de la vitrina (filtro de `renderTienda_`); siguen en la planilla y sus afiches en `img/tienda/`. No volver a mostrarlos salvo que ella lo pida. **Smoothie proteico Frutilla Cream (10-11-2026, receta de la dueña, con Prostar):** 150 ml de leche entera sin lactosa, 30 g de Prostar, 80 g de frutillas congeladas, 30 g de plátano congelado, 60 g de yogur natural sin azúcar, 2 cubos de hielo y 0,3 g de xantana; ≈305 kcal · 33 P · 26 C · 9 G (estimado, `TIENDA_MACROS`), contiene leche; costo ≈$2.000, venta $4.500; descuenta del tarro Prostar (`USA_PORCION`) y en la vitrina va bajo «🍦 Con proteína Prostar». Afiche `img/tienda/smoothie-frutilla-cream.jpg` (foto rosada de ChatGPT + cuadro del tarro Prostar, igual que los demás). **6 smoothies con el vaso real (18-11-2026, la dueña: fotos de ChatGPT con su vaso de 16 oz, tapa domo, pajilla amarilla y sticker «SMOOTHIE PROTEICO»):** receta cremosa (80 ml de leche, 60 g de yogur griego, 30 g de proteína, 0,5 g de xantana, fruta congelada, 3 cubos grandes de base de helado, sal; 5 pulsos + 20-30 s en la Ninja). Afiches nuevos (mismo diseño, tarro ISO100 o Prostar, armados en el scratchpad con `smo/gen2.py`): Choco Banana Cream $5.500 (405 · 38 · 39 · 11), Choco Maní $5.500 (460 · 42 · 33 · 19, contiene maní; vuelve a la tienda y la vitrina), Frutilla Cream $4.500 (385 · 38 · 32 · 12), Vainilla Latte $4.500 (380 · 38 · 31 · 12; café ½ cdta y canela), Tropical Mango $4.500 (445 · 39 · 41 · 15; mango, coco rallado) y Berry Cream $4.500 (400 · 38 · 36 · 12; arándanos, frambuesas, moras). Macros aproximados (el aporte de los cubos de base es estimado). Los nuevos se cargan con enlace `?nuevo=1` (cat Smoothies, stock del tarro). **Batido ganador de masa FUERA desde el 10-11-2026** (la dueña: "ganador de masa no"): mismo filtro (`/^batido ganador/i`) en la tienda y la vitrina; no volver a mostrarlo salvo que ella lo pida.
 - **Dos cuadros arriba (07-11-2026, la dueña: "pon el total de toda la tienda, solo el dinero disponible para comprar, y mi ganancia para mí de mes a mes"):** `#plataBar` muestra lado a lado «💰 Para comprar · toda la tienda» (el total de `plataParaComprar`; al tocarlo, `verPlata` con el detalle por categoría) y «💵 Tu ganancia» (`miParteMeses`: su % de la ganancia del mes en curso, «va sumando», y debajo el mes anterior «para sacar»; al tocarlo, `verMiParte` con todos los meses).
 - **📋 `copiar-codigo.html` (27-10-2026, la dueña: "me mandas el código para llegar y copiar"):** página con un botón «Copiar todo el código» que lee `docs/apps-script/Ingresos.gs` publicado y los pasos para instalarlo. Mandarle este enlace cada vez que haya una versión nueva del Apps Script.
 - **«← Volver» siempre a la vista (27-10-2026, la dueña: "debería haber un botón volver"):** en todas las ventanas de `tienda.html` (Armar pack, fichas, Qué comprar, etc.) el título va pegado arriba (`.hoja .cab` sticky) con el botón amarillo «← Volver» (`.btn.chico.volver`; antes «Cerrar»). La ventana mide `calc(92vh / 1.22)` de alto: con `body{zoom:1.22}` medía más que la pantalla y su parte de arriba (con el botón) quedaba fuera.
